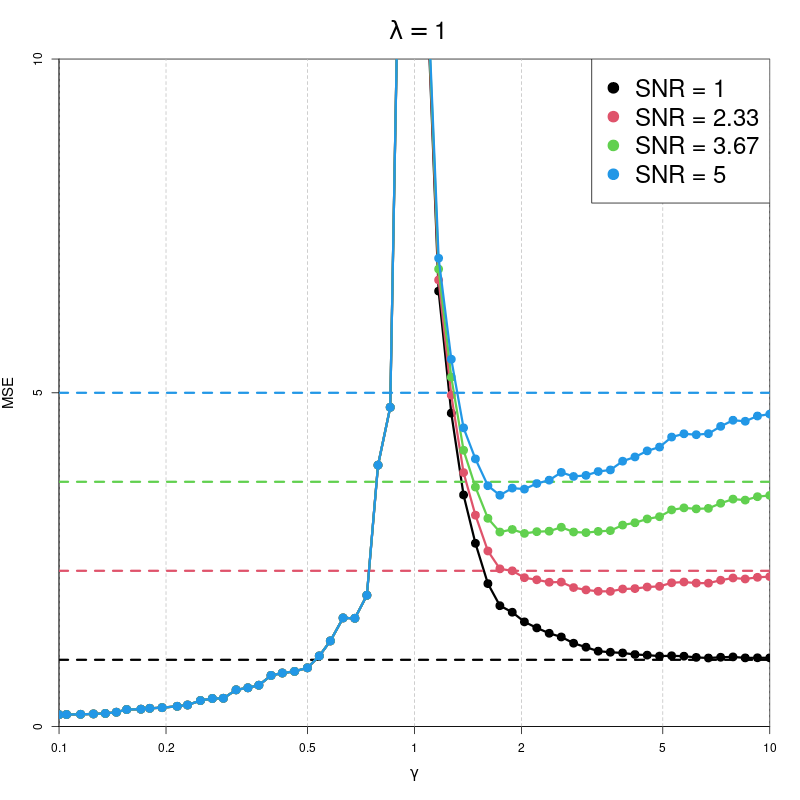
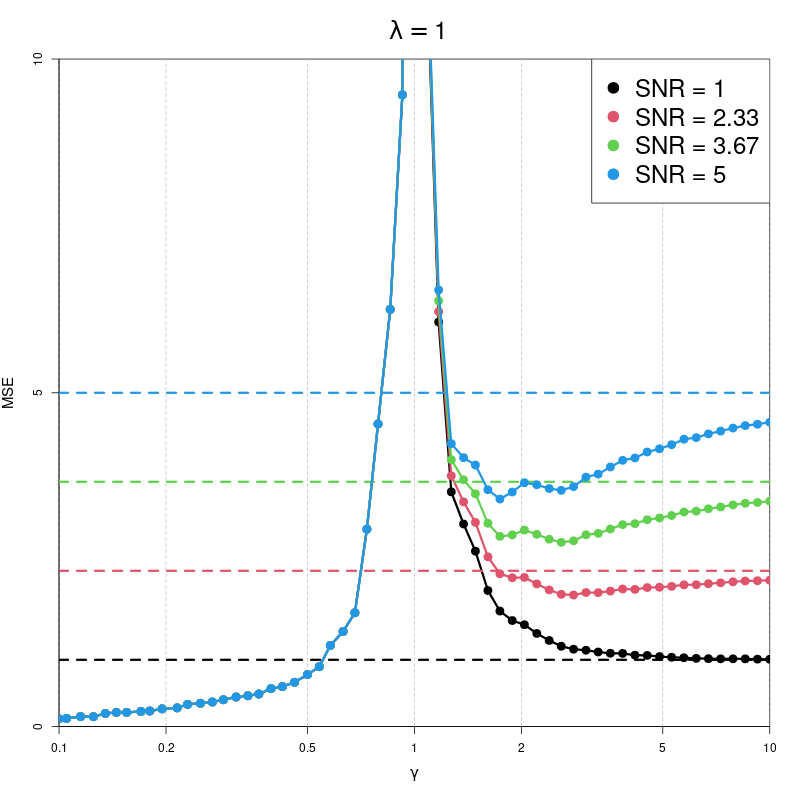
update new code structure

diff --git a/simulation/tests/test_benign_overfitting.py b/simulation/tests/test_benign_overfitting.py
@@ -1,6 +1,6 @@
 import unittest
 import numpy as np
-from simulation.benign_overfitting import *
+import simulation.benign_overfitting as bo 
 
 seed = np.random.randint(0, 2**32 - 1)
 print('seed =', seed)
@@ -44,13 +44,13 @@ class TestSimulationMethods(unittest.TestCase):
         X = np.array([[1.0, 2.0], [3.0, 4.0], [5.0, 6.0]])
         Y = np.array([3.0, 7.0, 11.0])
         β_hat_expected = np.array([1.0, 1.0])
-        β_hat = solve_β_hat(X, Y)
+        β_hat = bo.solve_β_hat(X, Y)
         np.testing.assert_allclose(β_hat, β_hat_expected, rtol=1e-8)
         
         # Test with ill-conditioned matrix
         X = np.array([[1.0, 2.0], [1.0, 2.0001], [1, 2.0002]])
         Y = np.array([3.0, 3.0001, 3.0002])
-        β_hat = solve_β_hat(X, Y)
+        β_hat = bo.solve_β_hat(X, Y)
         β_hat_expected = np.linalg.lstsq(X, Y, rcond=None)[0]
         np.testing.assert_allclose(β_hat, β_hat_expected, rtol=1e-5)
 
@@ -60,12 +60,12 @@ class TestSimulationMethods(unittest.TestCase):
         β_hat = np.array([2.0])
         β = np.array([2.0])
 
-        self.assertAlmostEqual(calculate_MSE(β_hat, β, X), 0, delta=1e-8)
+        self.assertAlmostEqual(bo.calculate_MSE(β_hat, β, X), 0, delta=1e-8)
         
         # Test with non-zero error
         β_hat = np.array([3.0])
 
-        self.assertAlmostEqual(calculate_MSE(β_hat, β, X), 14/3, delta=1e-8)
+        self.assertAlmostEqual(bo.calculate_MSE(β_hat, β, X), 14/3, delta=1e-8)
 
     def test_compute_Y(self):
         # Test with zero noise
@@ -73,7 +73,7 @@ class TestSimulationMethods(unittest.TestCase):
         β = np.array([1.0])
         σ = 0.0
         Y_expected = np.array([1.0, 1.0, 1.0])
-        Y_actual = compute_Y(X, β, σ)
+        Y_actual = bo.compute_Y(X, β, σ)
         np.testing.assert_allclose(Y_actual, Y_expected, rtol=1e-8)
         
         # Test with non-zero noise
@@ -81,7 +81,7 @@ class TestSimulationMethods(unittest.TestCase):
         np.random.seed(seed)
         noise = np.random.normal(0, σ, len(X))
         Y_expected = X @ β + noise
-        Y_actual = compute_Y(X, β, noise)
+        Y_actual = bo.compute_Y(X, β, noise)
         np.testing.assert_allclose(Y_actual, Y_expected, rtol=1e-8)
 
     def test_compute_X(self):
@@ -90,8 +90,8 @@ class TestSimulationMethods(unittest.TestCase):
         p = 2
         n = 3
 
-        U = generate_orthonormal_matrix(p)
-        V = generate_orthonormal_matrix(n)
+        U = bo.generate_orthonormal_matrix(p)
+        V = bo.generate_orthonormal_matrix(n)
 
         np.random.seed(seed)
         Z_expected = np.random.normal(0.0, 1.0, (n, p))
@@ -102,25 +102,25 @@ class TestSimulationMethods(unittest.TestCase):
         self.assertTrue(is_pos_semidef(C))
 
         X_expected = V @ np.diag([μ] + [1] * (n-1)) @ V.T @ Z_expected @ U @ np.diag([λ] + [1] * (p-1)) @ U.T
-        X_actual = compute_X(λ, μ, n, p, seed=seed)
+        X_actual = bo.compute_X(λ, μ, n, p, seed=seed)
         np.testing.assert_allclose(X_actual, X_expected, rtol=1e-8)
 
     def test_scale_norm(self):
         # Test with unit vector
         X = np.array([1.0, 0.0, 0.0])
         out_norm = 2
-        X_scaled = scale_norm(X, out_norm)
+        X_scaled = bo.scale_norm(X, out_norm)
         self.assertAlmostEqual(np.linalg.norm(X_scaled)**2, out_norm, delta=1e-8)
         
         # Test with zero vector
         X = np.array([0.0, 0.0, 0.0])
-        X_scaled = scale_norm(X, out_norm)
+        X_scaled = bo.scale_norm(X, out_norm)
         self.assertAlmostEqual(np.linalg.norm(X_scaled), 0, delta=1e-8)
 
     def test_generate_orthonormal_matrix(self):
 
         for dim in range(1, 10):
-            A = generate_orthonormal_matrix(dim)
+            A = bo.generate_orthonormal_matrix(dim)
             self.assertTrue(check_orthonormal(A))
 
     if __name__ == '__main__':

diff --git a/simulation/compound_simulation.py b/simulation/compound_simulation.py
@@ -42,7 +42,7 @@ if __name__ == '__main__':
     # ρ_array = np.array([-0.3, -0.5, -0.7])
     ρ_array = np.array([0.3, 0.5, 1])
     n1, n2 = 30, 30
-    γ = bo.generate_symlog_points(n1, n2, 0.1, 100, 1)
+    γ = bo.generate_symlog_points(n1, n2, 0.1, 10, 1)
     n_array = np.array([200])
     p_array = np.unique((γ * n_array).astype(int))
     snr_array = np.linspace(1, 5, 4)

diff --git a/simulation/benign_overfitting.py b/simulation/benign_overfitting.py
@@ -146,8 +146,8 @@ def generate_orthonormal_matrix(dim):
         Orthonormal matrix.
     """
     np.random.seed(10)
-    # a = np.random.uniform(0, 1, (dim, dim))
-    a = np.ones((dim, dim))
+    a = np.random.uniform(10, 20, (dim, dim))
+    # a = np.ones((dim, dim))
     res, _ = np.linalg.qr(a)
     return np.ascontiguousarray(res)
 
